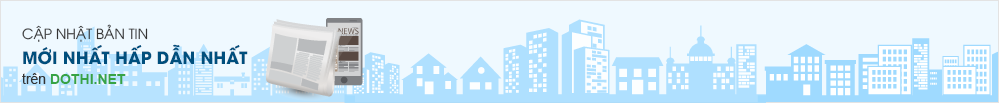
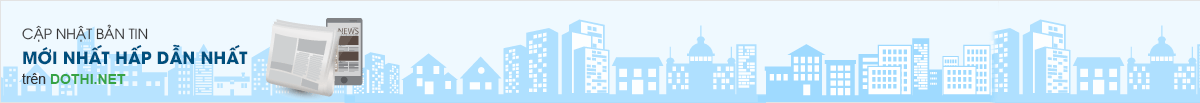
add

diff --git a/css/style.css b/css/style.css
@@ -544,9 +544,9 @@ img {
 .block-news-default .block-news-list-right {
     border: 1px solid #dedede;
     background: #fff;
-    padding: 18px 13px 10px !important;
-    min-height: 313px;
-    height: 313px;
+    padding: 23px 13px 10px !important;
+    min-height: 385px;
+    height: 385px;
     overflow: hidden;
 }
 .block-news-default-right .block-news-list-right li {
@@ -598,7 +598,7 @@ img {
     width: 100%;
 }
 .block-news-new li.news-new-item .news-new-item-description {
-    width: 72%;
+    width: 76%;
     float: right;
     text-align: left;
     position: relative;
@@ -1595,7 +1595,7 @@ img {
     width: 100%;
 }
 .block-article-list .article-list-news .article-news-item .article-news-item-description {
-    width: 66%;
+    width: 72%;
     float: right;
     text-align: left;
     position: relative;

diff --git a/index2.html b/index2.html
@@ -252,6 +252,7 @@
 				                    <li><h3><a href="#" title="">Dự án đốn 100 hecta rừng làm sân golf ở Phú Yên được ưu ái ...</a></h3></li>
 				                    <li><h3><a href="#" title="">Dự án đốn 100 hecta rừng làm sân golf ở Phú Yên được ưu ái ...</a></h3></li>
 				                    <li><h3><a href="#" title="">Dự án đốn 100 hecta rừng làm sân golf ở Phú Yên được ưu ái ...</a></h3></li>
+				                    <li><h3><a href="#" title="">Dự án đốn 100 hecta rừng làm sân golf ở Phú Yên được ưu ái ...</a></h3></li>
 								</ul>
 							</div>
 						</div><!-- /block-news-default-right -->

diff --git a/css/responsive.css b/css/responsive.css
@@ -28,7 +28,7 @@
 */
 @media (min-width: 1200px) {
 	.container {
-	    width: 1000px;
+	    width: 1200px;
 	}
 	.nav-tabs-langding.fixed li {
 	    width: 90px !important;
